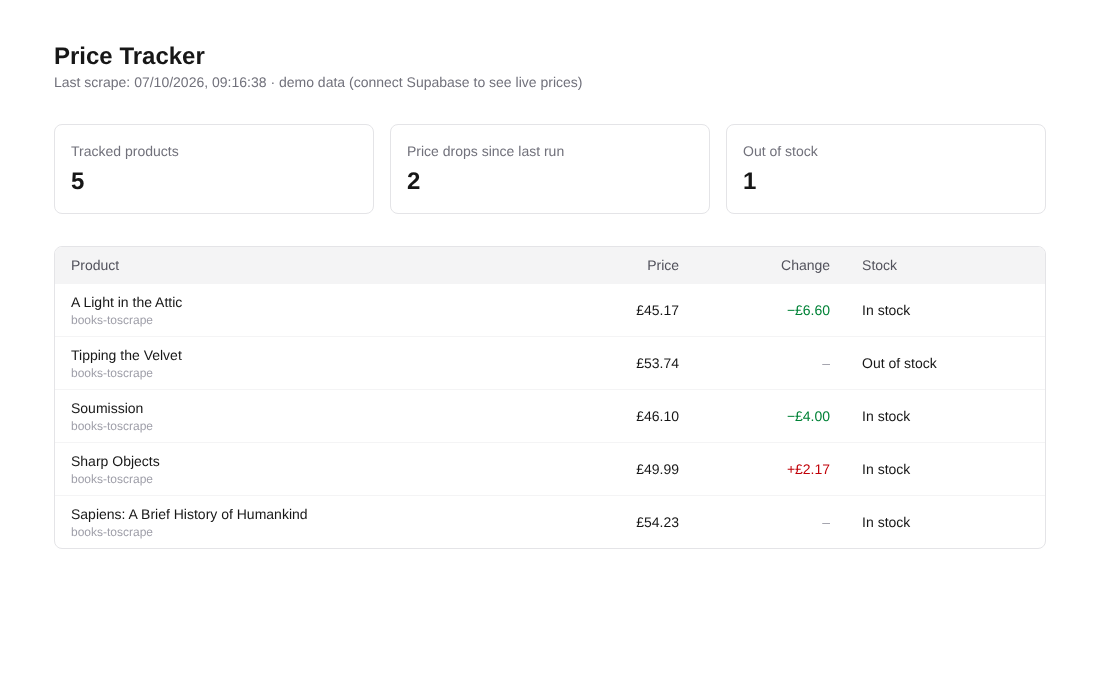
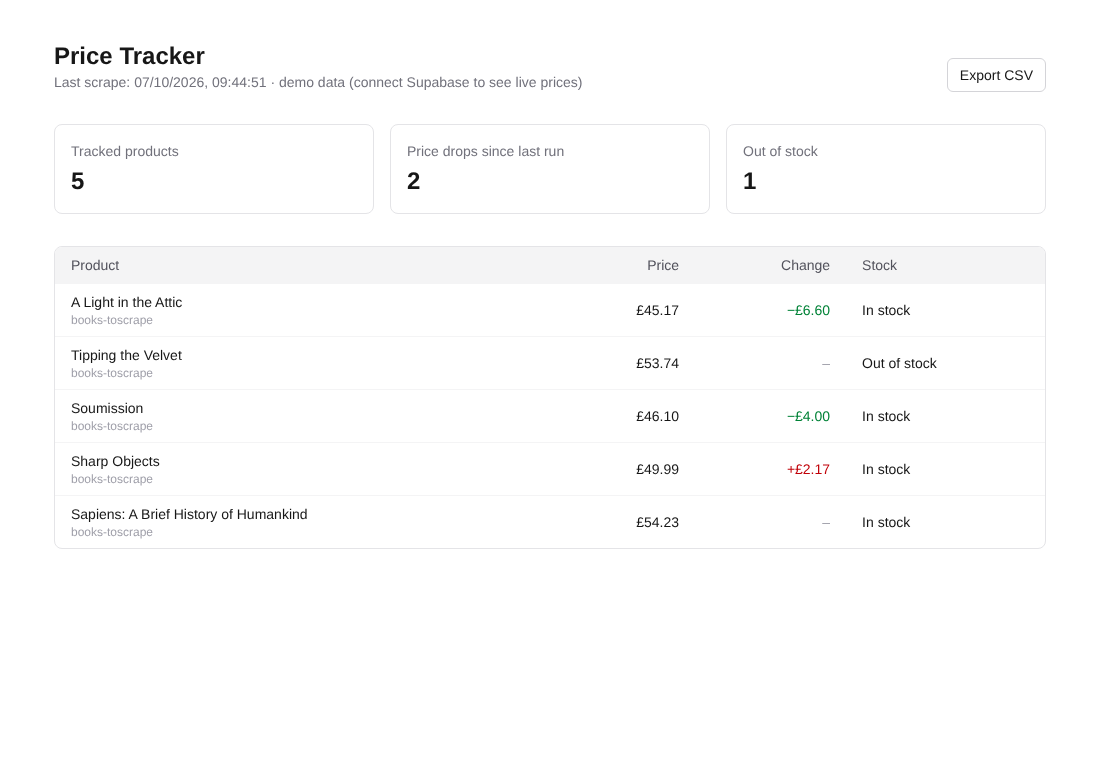
Add per-product price history chart and CSV export
Claude-Session: https://claude.ai/code/session_01SWMy2wXYHouDXoVGMjVnoZ

diff --git a/web/src/components/PriceChart.tsx b/web/src/components/PriceChart.tsx
@@ -1,0 +1,96 @@
+"use client";
+
+import { useRef, useState } from "react";
+import type { PricePoint } from "@/lib/data";
+
+const W = 640;
+const H = 240;
+const PAD = { top: 16, right: 16, bottom: 28, left: 56 };
+
+export function PriceChart({ points, currency }: { points: PricePoint[]; currency: string | null }) {
+  const svgRef = useRef<SVGSVGElement>(null);
+  const [hover, setHover] = useState<number | null>(null);
+  const data = points.filter((p): p is PricePoint & { price: number } => p.price != null);
+  if (data.length < 2) return <p className="text-sm text-zinc-500">Not enough history yet. Prices appear after two scrapes.</p>;
+
+  const fmt = (v: number) =>
+    new Intl.NumberFormat("en-GB", { style: "currency", currency: currency ?? "USD" }).format(v);
+  const times = data.map((p) => Date.parse(p.scraped_at));
+  const prices = data.map((p) => p.price);
+  const [t0, t1] = [times[0], times[times.length - 1]];
+  const pad = (Math.max(...prices) - Math.min(...prices)) * 0.15 || 1;
+  const [lo, hi] = [Math.min(...prices) - pad, Math.max(...prices) + pad];
+  const x = (t: number) => PAD.left + ((t - t0) / (t1 - t0)) * (W - PAD.left - PAD.right);
+  const y = (v: number) => PAD.top + (1 - (v - lo) / (hi - lo)) * (H - PAD.top - PAD.bottom);
+  const path = data.map((p, i) => `${i ? "L" : "M"}${x(times[i]).toFixed(1)},${y(p.price).toFixed(1)}`).join("");
+  const ticks = [0, 1, 2, 3].map((i) => lo + ((hi - lo) * i) / 3);
+  const dateLabel = (t: number) => new Date(t).toLocaleDateString("en-GB", { day: "numeric", month: "short" });
+
+  function onMove(e: React.PointerEvent<SVGSVGElement>) {
+    const box = svgRef.current!.getBoundingClientRect();
+    const px = ((e.clientX - box.left) / box.width) * W;
+    let best = 0;
+    times.forEach((t, i) => {
+      if (Math.abs(x(t) - px) < Math.abs(x(times[best]) - px)) best = i;
+    });
+    setHover(best);
+  }
+
+  const h = hover == null ? null : { t: times[hover], v: data[hover].price };
+  return (
+    <div className="relative">
+      <svg
+        ref={svgRef}
+        viewBox={`0 0 ${W} ${H}`}
+        className="w-full touch-none"
+        role="img"
+        aria-label={`Price history from ${dateLabel(t0)} to ${dateLabel(t1)}`}
+        onPointerMove={onMove}
+        onPointerLeave={() => setHover(null)}
+      >
+        {ticks.map((v) => (
+          <g key={v}>
+            <line x1={PAD.left} x2={W - PAD.right} y1={y(v)} y2={y(v)} stroke="#e4e4e7" />
+            <text x={PAD.left - 8} y={y(v)} textAnchor="end" dominantBaseline="middle" fontSize="11" fill="#71717a">
+              {fmt(v)}
+            </text>
+          </g>
+        ))}
+        {[t0, t1].map((t, i) => (
+          <text key={t} x={x(t)} y={H - 8} textAnchor={i ? "end" : "start"} fontSize="11" fill="#71717a">
+            {dateLabel(t)}
+          </text>
+        ))}
+        <path d={path} fill="none" stroke="#2a78d6" strokeWidth="2" strokeLinejoin="round" />
+        {h && (
+          <>
+            <line x1={x(h.t)} x2={x(h.t)} y1={PAD.top} y2={H - PAD.bottom} stroke="#a1a1aa" strokeWidth="1" />
+            <circle cx={x(h.t)} cy={y(h.v)} r="4" fill="#2a78d6" stroke="#fff" strokeWidth="2" />
+          </>
+        )}
+      </svg>
+      {h && (
+        <div
+          className="pointer-events-none absolute top-0 rounded border border-zinc-200 bg-white px-2 py-1 text-xs shadow-sm"
+          style={{ left: `${(x(h.t) / W) * 100}%`, transform: x(h.t) > W / 2 ? "translateX(-110%)" : "translateX(10%)" }}
+        >
+          <div className="text-zinc-500">{dateLabel(h.t)}</div>
+          <div className="font-medium tabular-nums">{fmt(h.v)}</div>
+        </div>
+      )}
+      <details className="mt-3 text-sm">
+        <summary className="cursor-pointer text-zinc-500">Show as table</summary>
+        <table className="mt-2 w-full">
+          <tbody>
+            {data.map((p, i) => (
+              <tr key={p.scraped_at} className="border-t border-zinc-100">
+                <td className="py-1">{dateLabel(times[i])}</td>
+                <td className="py-1 text-right tabular-nums">{fmt(p.price)}</td>
+              </tr>
+            ))}
+          </tbody>
+        </table>
+      </details>
+    </div>
+  );
+}

diff --git a/web/src/lib/data.ts b/web/src/lib/data.ts
@@ -34,6 +34,34 @@ export async function getProducts(): Promise<ProductRow[]> {
   return data as ProductRow[];
 }
 
+export type PricePoint = { scraped_at: string; price: number | null; in_stock: boolean };
+
+export async function getProduct(id: number): Promise<ProductRow | null> {
+  "use cache";
+  cacheLife("minutes");
+  if (isDemo) return DEMO_PRODUCTS.find((p) => p.id === id) ?? null;
+  const db = createClient(url!, anonKey!);
+  const { data, error } = await db.from("product_latest").select("*").eq("id", id).maybeSingle();
+  if (error) throw new Error(error.message);
+  return data as ProductRow | null;
+}
+
+export async function getPriceHistory(id: number, days = 90): Promise<PricePoint[]> {
+  "use cache";
+  cacheLife("minutes");
+  if (isDemo) return demoHistory(id, days);
+  const db = createClient(url!, anonKey!);
+  const since = new Date(Date.now() - days * 86_400_000).toISOString();
+  const { data, error } = await db
+    .from("price_history")
+    .select("scraped_at, price, in_stock")
+    .eq("product_id", id)
+    .gte("scraped_at", since)
+    .order("scraped_at", { ascending: true });
+  if (error) throw new Error(error.message);
+  return data as PricePoint[];
+}
+
 // Sample rows so the dashboard renders before Supabase is connected.
 const now = new Date().toISOString();
 const demo = (id: number, title: string, price: number, previous: number, in_stock = true): ProductRow => ({
@@ -56,3 +84,21 @@ const DEMO_PRODUCTS: ProductRow[] = [
   demo(4, "Sharp Objects", 49.99, 47.82),
   demo(5, "Sapiens: A Brief History of Humankind", 54.23, 54.23),
 ];
+
+// Deterministic daily series ending at the demo product's current price.
+function demoHistory(id: number, days: number): PricePoint[] {
+  const product = DEMO_PRODUCTS.find((p) => p.id === id);
+  if (!product?.price) return [];
+  const end = Date.parse(product.scraped_at!);
+  let seed = id * 9301;
+  const rand = () => ((seed = (seed * 9301 + 49297) % 233280) / 233280);
+  const points: PricePoint[] = [];
+  let price = product.previous_price ?? product.price;
+  for (let i = Math.min(days, 30) - 1; i >= 1; i--) {
+    points.push({ scraped_at: new Date(end - i * 86_400_000).toISOString(), price: +price.toFixed(2), in_stock: true });
+    if (rand() < 0.25) price = Math.max(1, price + (rand() - 0.5) * 6);
+  }
+  points[points.length - 1].price = product.previous_price;
+  points.push({ scraped_at: product.scraped_at!, price: product.price, in_stock: product.in_stock ?? true });
+  return points;
+}

diff --git a/web/src/app/products/[id]/page.tsx b/web/src/app/products/[id]/page.tsx
@@ -1,0 +1,61 @@
+import { Suspense } from "react";
+import Link from "next/link";
+import { notFound } from "next/navigation";
+import { PriceChart } from "@/components/PriceChart";
+import { getPriceHistory, getProduct } from "@/lib/data";
+
+export default function ProductPage({ params }: PageProps<"/products/[id]">) {
+  return (
+    <main className="mx-auto w-full max-w-3xl px-4 py-10">
+      <Link href="/" className="text-sm text-zinc-500 hover:underline">
+        ← All products
+      </Link>
+      <Suspense fallback={<p className="mt-6 text-sm text-zinc-500">Loading…</p>}>
+        <ProductDetail params={params} />
+      </Suspense>
+    </main>
+  );
+}
+
+async function ProductDetail({ params }: { params: Promise<{ id: string }> }) {
+  const id = Number((await params).id);
+  if (!Number.isInteger(id)) notFound();
+  const [product, history] = await Promise.all([getProduct(id), getPriceHistory(id)]);
+  if (!product) notFound();
+
+  const prices = history.map((p) => p.price).filter((p): p is number => p != null);
+  const fmt = (v: number) =>
+    new Intl.NumberFormat("en-GB", { style: "currency", currency: product.currency ?? "USD" }).format(v);
+
+  return (
+    <>
+      <h1 className="mt-4 text-2xl font-semibold">{product.title}</h1>
+      <p className="text-sm text-zinc-500">
+        {product.source} ·{" "}
+        <a href={product.url} target="_blank" rel="noreferrer" className="hover:underline">
+          View on site
+        </a>
+      </p>
+
+      <section className="my-6 grid grid-cols-1 gap-4 sm:grid-cols-3">
+        <Stat label="Current" value={product.price == null ? "–" : fmt(product.price)} />
+        <Stat label="Lowest" value={prices.length ? fmt(Math.min(...prices)) : "–"} />
+        <Stat label="Highest" value={prices.length ? fmt(Math.max(...prices)) : "–"} />
+      </section>
+
+      <div className="rounded-lg border border-zinc-200 bg-white p-4">
+        <h2 className="mb-2 text-sm font-medium text-zinc-600">Price history</h2>
+        <PriceChart points={history} currency={product.currency} />
+      </div>
+    </>
+  );
+}
+
+function Stat({ label, value }: { label: string; value: string }) {
+  return (
+    <div className="rounded-lg border border-zinc-200 bg-white p-4">
+      <div className="text-sm text-zinc-500">{label}</div>
+      <div className="mt-1 text-xl font-semibold tabular-nums">{value}</div>
+    </div>
+  );
+}

diff --git a/web/src/app/page.tsx b/web/src/app/page.tsx
@@ -1,3 +1,4 @@
+import Link from "next/link";
 import { getProducts, isDemo, type ProductRow } from "@/lib/data";
 
 const money = (value: number | null, currency: string | null) =>
@@ -13,12 +14,20 @@ export default async function Home() {
 
   return (
     <main className="mx-auto w-full max-w-5xl px-4 py-10">
-      <header className="mb-8">
+      <header className="mb-8 flex flex-wrap items-end justify-between gap-4">
+        <div>
         <h1 className="text-2xl font-semibold">Price Tracker</h1>
         <p className="text-sm text-zinc-500">
           Last scrape: {lastRun ? new Date(lastRun).toLocaleString("en-GB") : "never"}
           {isDemo && " · demo data (connect Supabase to see live prices)"}
         </p>
+        </div>
+        <a
+          href="/api/export"
+          className="rounded-md border border-zinc-300 bg-white px-3 py-1.5 text-sm font-medium hover:bg-zinc-100"
+        >
+          Export CSV
+        </a>
       </header>
 
       <section className="mb-8 grid grid-cols-1 gap-4 sm:grid-cols-3">
@@ -63,9 +72,9 @@ function Row({ product: p }: { product: ProductRow }) {
   return (
     <tr className="border-t border-zinc-100">
       <td className="px-4 py-2">
-        <a href={p.url} target="_blank" rel="noreferrer" className="hover:underline">
+        <Link href={`/products/${p.id}`} className="hover:underline">
           {p.title}
-        </a>
+        </Link>
         <div className="text-xs text-zinc-400">{p.source}</div>
       </td>
       <td className="px-4 py-2 text-right tabular-nums">{money(p.price, p.currency)}</td>

diff --git a/web/src/app/api/export/route.ts b/web/src/app/api/export/route.ts
@@ -1,0 +1,21 @@
+import { getProducts } from "@/lib/data";
+
+const COLUMNS = ["id", "source", "title", "url", "price", "previous_price", "price_change", "currency", "in_stock", "scraped_at"] as const;
+
+// Quote every field and neutralise leading =,+,-,@ so spreadsheets don't run it as a formula.
+function cell(value: unknown) {
+  let text = value == null ? "" : String(value);
+  if (/^[=+\-@]/.test(text) && Number.isNaN(Number(text))) text = `'${text}`;
+  return `"${text.replace(/"/g, '""')}"`;
+}
+
+export async function GET() {
+  const products = await getProducts();
+  const rows = [COLUMNS.join(","), ...products.map((p) => COLUMNS.map((c) => cell(p[c])).join(","))];
+  return new Response("" + rows.join("\r\n"), {
+    headers: {
+      "content-type": "text/csv; charset=utf-8",
+      "content-disposition": `attachment; filename="prices-${new Date().toISOString().slice(0, 10)}.csv"`,
+    },
+  });
+}

diff --git a/README.md b/README.md
@@ -4,13 +4,15 @@ A Node.js scraper collects product prices on a schedule and stores every run in 
 
 ![Dashboard](panel-onizleme.png)
 
+![Price history](urun-grafik.png)
+
 ## Structure
 
 | Folder | What it does |
 | --- | --- |
 | `scraper/` | Node.js 20+ crawler. One adapter per site (`src/adapters/`), polite fetching with retries, pagination. Saves to Supabase, or to local JSON when no credentials are set. |
 | `supabase/migrations/` | Tables `products`, `price_history`, `alerts`, the `product_latest` view and row level security. |
-| `web/` | Next.js dashboard reading the `product_latest` view. Shows demo data until Supabase is connected. |
+| `web/` | Next.js dashboard: product list, per-product price history chart, CSV export. Shows demo data until Supabase is connected. |
 
 ## Run it
 
@@ -34,7 +36,8 @@ Create `scraper/src/adapters/<site>.js` exporting `name`, `startUrl` and `parseL
 - [x] Scraper with pagination and retries, unit-tested parser
 - [x] Supabase schema with price history
 - [x] Dashboard with price change and stock status
-- [ ] Price history chart per product
-- [ ] CSV export and Google Sheets sync
+- [x] Price history chart per product (hover tooltip, table view)
+- [x] CSV export (`/api/export`, spreadsheet-safe)
+- [ ] Google Sheets sync
 - [ ] Price-drop email alerts
 - [ ] Daily schedule (GitHub Actions cron)
